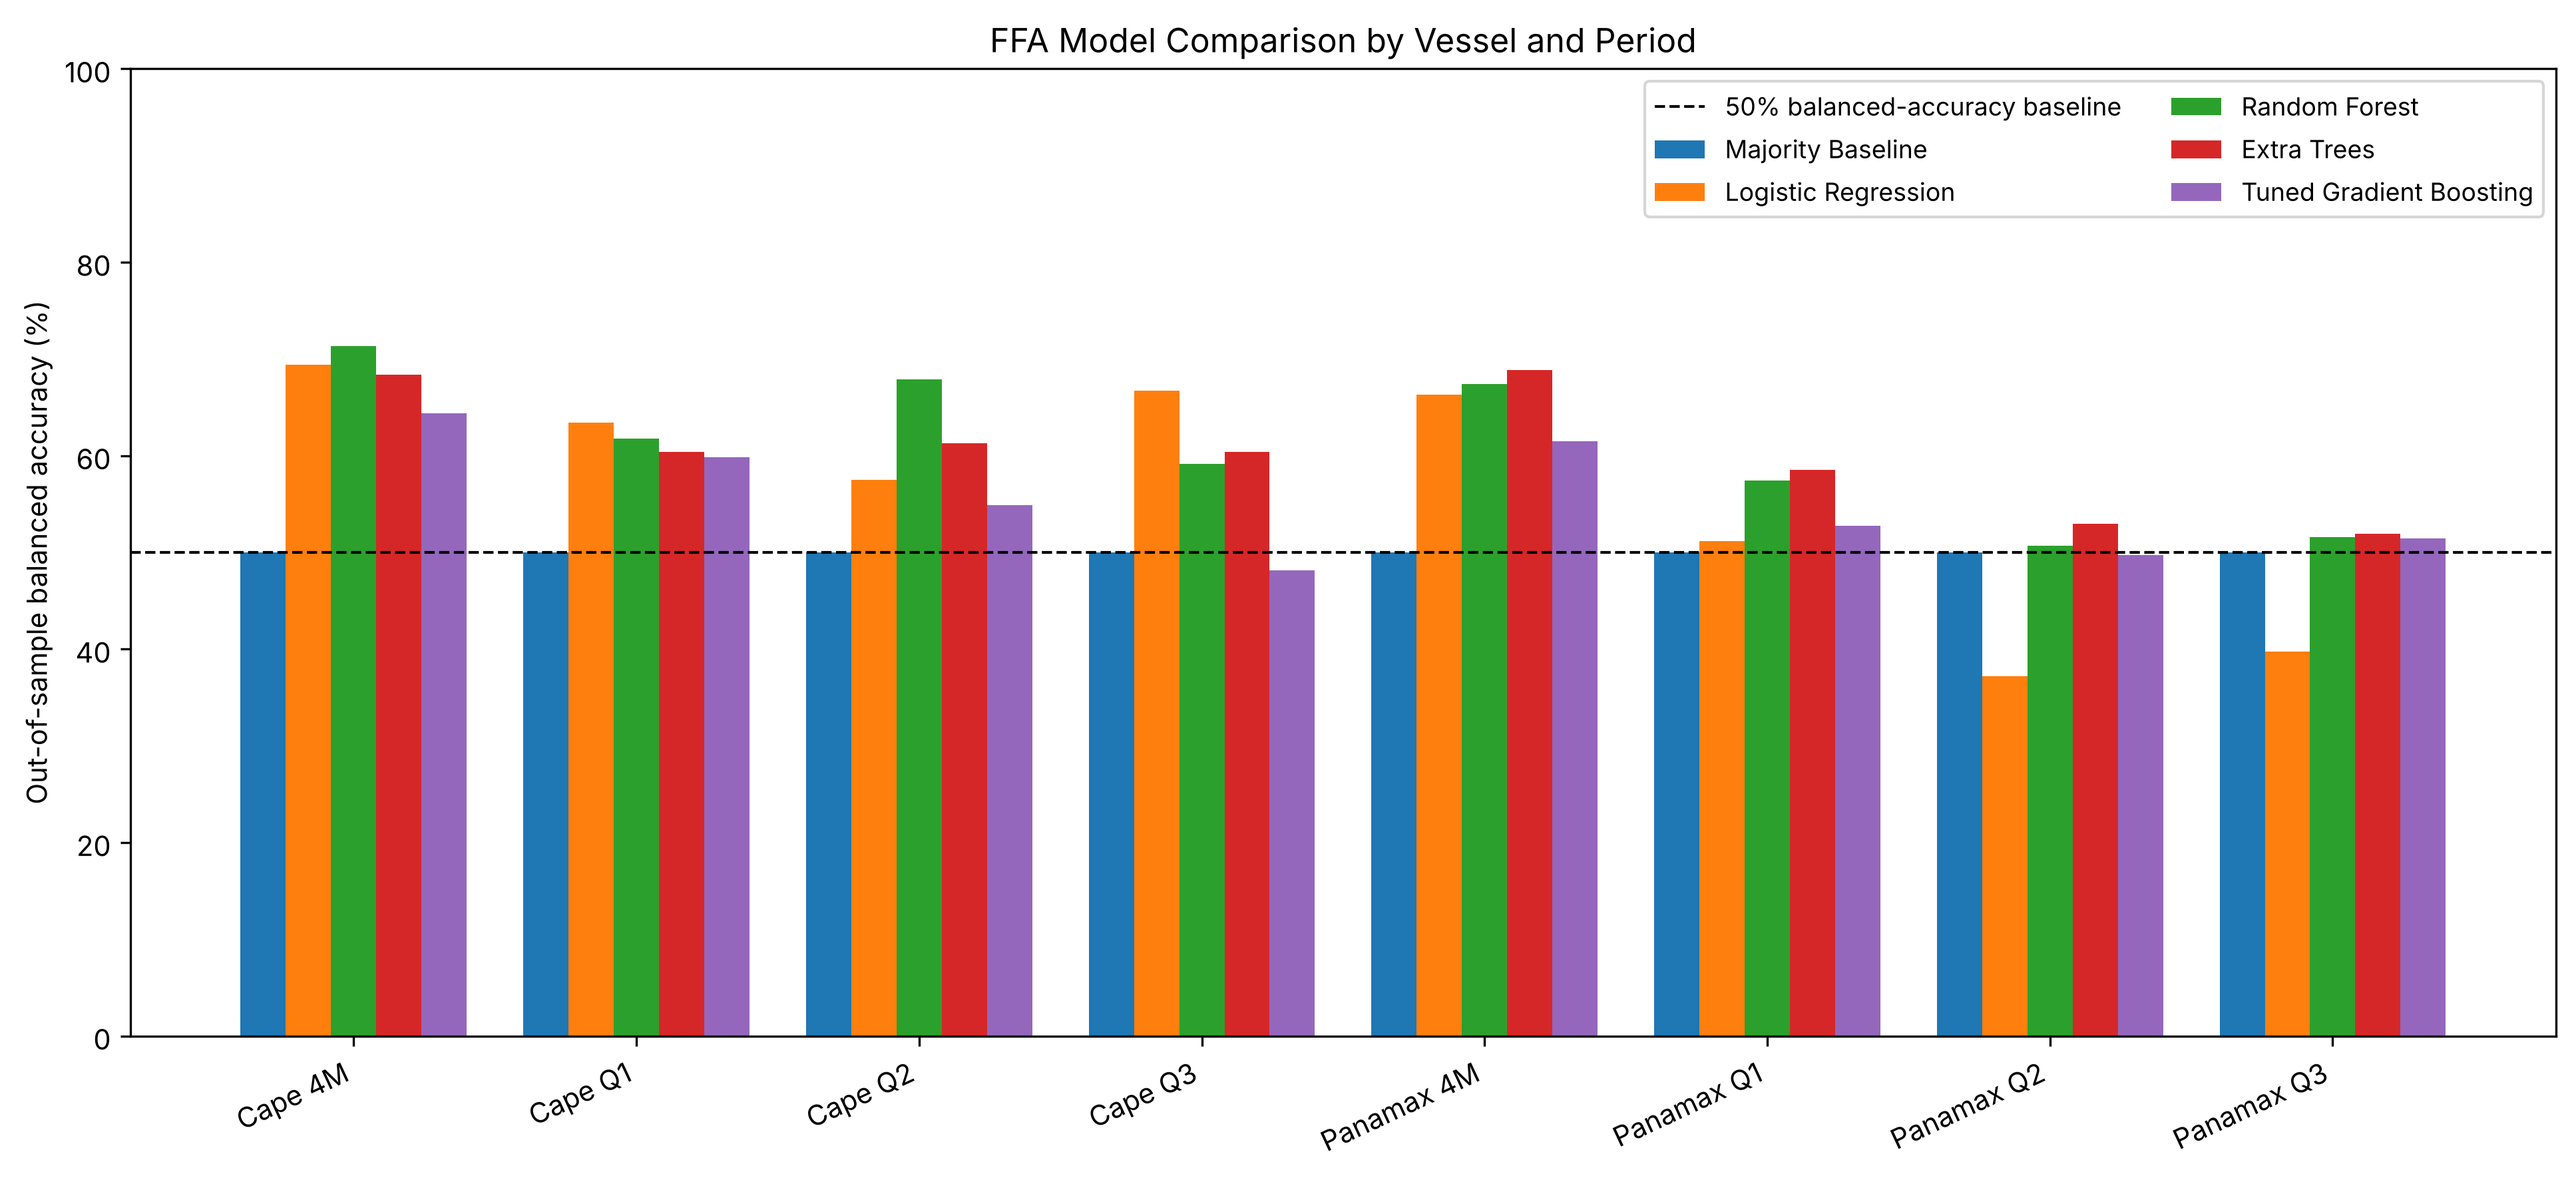
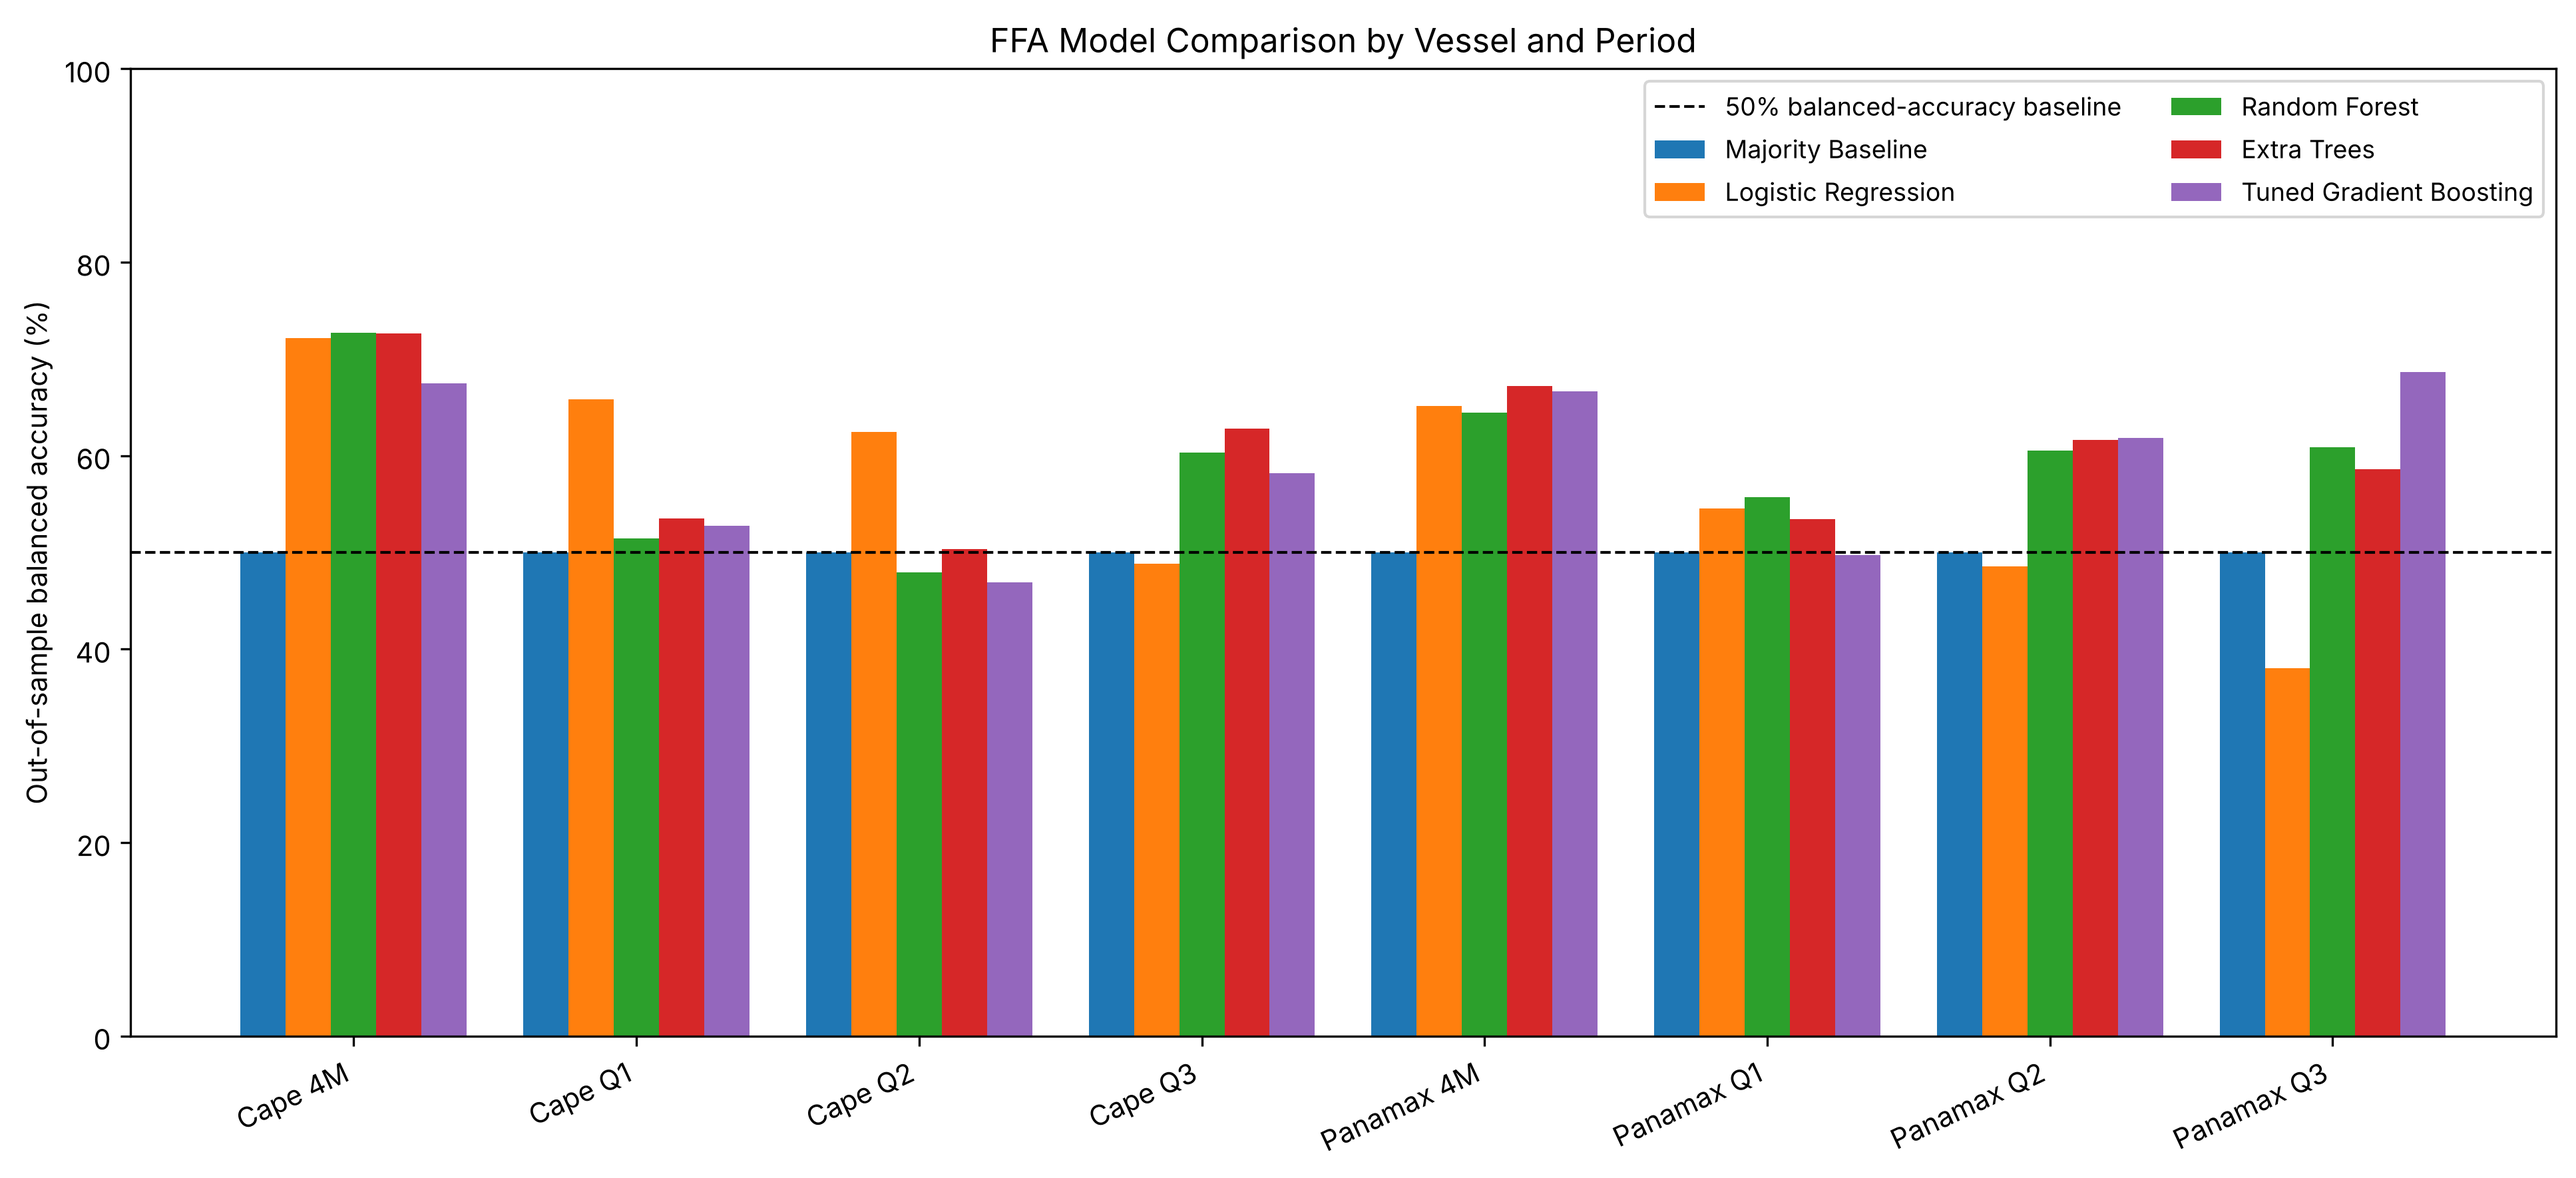
Remove the non-stationary price level from the features
The raw FFA price changes level across regimes, so models learned levels
specific to the training window. Without it, the average gap between
validation and test balanced accuracy falls from 0.13 to -0.03, and
average test balanced accuracy is unchanged.

Claude-Session: https://claude.ai/code/session_018qU7mwspZJPxSkNxvedJY9

diff --git a/ffa_panel.py b/ffa_panel.py
@@ -44,6 +44,12 @@ PERIOD_EXPERIMENTS = {
 DESIRED_VESSELS = ("Cape", "Panamax", "Supramax")
 TRANSACTION_COST_POINTS = 50.0
 RANDOM_STATE = 42
+
+# Model inputs. All are relative (returns, ratios, volatility, RSI), so they keep
+# the same meaning across price regimes. The raw price level is deliberately
+# excluded: it is non-stationary, and a model can learn "above X it falls",
+# which only holds inside the training window.
+FEATURES = ["Return_1D", "Return_5D", "Return_20D", "MA_Gap", "Volatility_20D", "RSI_14"]
 MAX_LIVE_DATA_STALENESS_DAYS = 7
 
 
@@ -192,7 +198,7 @@ def make_feature_frame(price: pd.Series, trading_days: int) -> tuple[pd.DataFram
     frame["Future_Return"] = frame["Future_Price"] / frame["Price"] - 1
     frame["Target"] = (frame["Future_Return"] > 0).astype("float")
 
-    features = ["Price", "Return_1D", "Return_5D", "Return_20D", "MA_Gap", "Volatility_20D", "RSI_14"]
+    features = FEATURES
     live_frame = frame.dropna(subset=features).copy()
     model_frame = live_frame.dropna(subset=["Future_Price", "Future_Return"]).copy()
     model_frame["Target"] = model_frame["Target"].astype(int)
@@ -335,7 +341,7 @@ def run_experiment(
     price = read_contract_series(source, str(config["tenor"]))
     model_frame, live_frame = make_feature_frame(price, trading_days)
     train, validation, test = chronological_split(model_frame, trading_days)
-    features = ["Price", "Return_1D", "Return_5D", "Return_20D", "MA_Gap", "Volatility_20D", "RSI_14"]
+    features = FEATURES
 
     if train["Target"].nunique() < 2:
         raise ValueError("Training target has only one class.")

diff --git a/README.md b/README.md
@@ -5,7 +5,8 @@ information about the direction of Forward Freight Agreement (FFA) prices for Ca
 Panamax vessels at quarterly and four-month horizons.
 
 **Short answer:** a modest, plausible signal at the +4MON horizon (test balanced accuracy of about
-66-69% versus a 50% baseline). At the +1Q to +3Q horizons the evidence is weak or absent.
+65-72% versus a 50% baseline, with wide confidence intervals). At the +1Q to +3Q horizons the evidence
+is weak or absent.
 The project's main contribution is the evaluation design, not a trading strategy.
 
 ## Question
@@ -24,7 +25,8 @@ class from the file name and the contract from the `Route-Period` column.
 
 ## Method
 
-- **Features (7):** price level, 1/5/20-day returns, 5/20-day moving-average gap, 20-day volatility, RSI(14).
+- **Features (6):** 1/5/20-day returns, 5/20-day moving-average gap, 20-day volatility, RSI(14). All are
+  relative measures; the raw price level is excluded because it is non-stationary (see below).
 - **Target:** price higher after the horizon (1) or not (0).
 - **Split:** chronological 60% / 20% / 20% (train / validation / test), with a **purge gap equal to the
   forecast horizon** at each boundary so that no label reaches into the next period.
@@ -41,14 +43,14 @@ class from the file name and the contract from the `Route-Period` column.
 
 | Vessel | Horizon | Model | Validation bal. acc. | **Test bal. acc.** | Test 95% CI (block bootstrap) |
 |---|---|---|---|---|---|
-| Capesize | +1Q | Logistic Regression | 0.72 | 0.63 | 0.50 - 0.74 |
-| Capesize | +2Q | Logistic Regression | 0.63 | 0.58 | 0.50 - 0.63 |
-| Capesize | +3Q | Gradient Boosting | 0.67 | 0.48 | 0.33 - 0.61 |
-| Capesize | **+4MON** | Logistic Regression | 0.73 | **0.69** | 0.52 - 0.79 |
-| Panamax | +1Q | Gradient Boosting | 0.79 | 0.53 | 0.38 - 0.63 |
-| Panamax | +2Q | Logistic Regression | 0.90 | 0.37 | 0.24 - 0.51 |
-| Panamax | +3Q | Gradient Boosting | 0.78 | 0.51 | 0.49 - 0.52 |
-| Panamax | **+4MON** | Logistic Regression | 0.90 | **0.66** | 0.57 - 0.75 |
+| Capesize | +1Q | Logistic Regression | 0.61 | 0.66 | 0.53 - 0.75 |
+| Capesize | +2Q | Gradient Boosting | 0.56 | 0.47 | 0.35 - 0.59 |
+| Capesize | +3Q | Logistic Regression | 0.56 | 0.49 | 0.35 - 0.59 |
+| Capesize | **+4MON** | Logistic Regression | 0.64 | **0.72** | 0.57 - 0.83 |
+| Panamax | +1Q | Logistic Regression | 0.74 | 0.55 | 0.43 - 0.66 |
+| Panamax | +2Q | Majority baseline (no model beat it on validation) | 0.50 | 0.50 | - |
+| Panamax | +3Q | Extra Trees | 0.64 | 0.59 | 0.51 - 0.67 |
+| Panamax | **+4MON** | Logistic Regression | 0.78 | **0.65** | 0.49 - 0.75 |
 
 The intervals use a moving-block bootstrap with block length equal to the forecast horizon, because
 overlapping labels are strongly autocorrelated and an ordinary bootstrap would make them far too narrow.
@@ -59,14 +61,15 @@ Full per-model results are in [`results/FFA_Model_Comparison.csv`](results/FFA_M
 
 ### What the results say
 
-1. **The only consistent out-of-sample edge is at the 4-month horizon**, for both vessel classes and
-   for every non-baseline model (balanced accuracy 61-71%). For both deployment models the 95% interval
-   stays above 50%, but only just for Capesize (lower bound 0.52), so the edge is plausible, not proven.
-2. **At quarterly horizons the signal is unreliable.** Two of six deployment models score at or below
-   50% on the test set.
-3. **Validation scores are much higher than test scores** (e.g. Panamax +2Q: 0.90 vs 0.37). Validation
-   accuracy was therefore not a trustworthy guide to out-of-sample performance, which points to regime
-   change between the windows and overfitting to the validation period.
+1. **The only consistent out-of-sample edge is at the 4-month horizon.** Every non-baseline model scores
+   0.64-0.73 on the test set for both vessel classes. The Capesize interval stays above 50% (0.57-0.83);
+   the Panamax interval just touches it (0.49-0.75). The edge is plausible, not proven.
+2. **At quarterly horizons the signal is unreliable.** Most intervals include 50%, and for Panamax +2Q
+   no model beat the majority baseline on validation, so the baseline was deployed.
+3. **Removing the raw price level removed the validation overfitting.** With the price level as a feature,
+   validation balanced accuracy was on average 0.13 higher than test (e.g. Panamax +2Q: 0.90 vs 0.37).
+   Without it, validation and test are on average within 0.03 of each other, while average test accuracy
+   is unchanged (0.58 vs 0.59). The price level was letting models learn levels specific to one period.
 
 ## Limitations (read before citing any number)
 
@@ -76,15 +79,13 @@ Full per-model results are in [`results/FFA_Model_Comparison.csv`](results/FFA_M
   reported here as results.
 - **Small effective sample.** Overlapping 63/84-day labels are strongly autocorrelated, so the number of
   independent observations is far lower than the row count.
-- **The price level is used as a feature**, which is non-stationary and probably drives some of the
-  regime-dependence seen above.
 - Supramax was not available. Live forecasts in the generated report are marked STALE (data ends 2026-04-21)
   and should be ignored.
 
 ## Next steps
 
 - Replace the single split with walk-forward evaluation.
-- Drop the raw price level and test stationary features (spreads between tenors, curve slope).
+- Test term-structure features (spreads between tenors, curve slope).
 - Add Supramax and refresh the data.
 
 ## Authors
